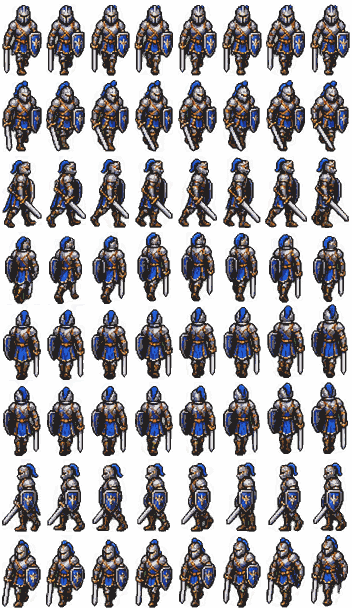
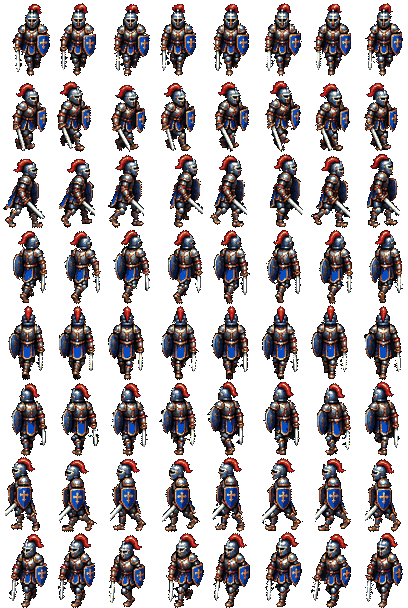
Le chevalier animé remplace la première planche de marche
La nouvelle planche est plus lisible : bouclier bleu au blason doré, plumet
rouge, silhouette nette. Elle devient le sprite du style « Animé »
(64 cases de 51×76, huit orientations × huit images).

Découpage : contrairement à la planche peinte, la maquette est aplatie — pas
d'alpha, même navy pour le fond et les panneaux — mais le contour des
personnages est plus SOMBRE que le fond, donc un seuil suffit, avec la
connexité au bord pour ne pas percer l'intérieur. Les bandes se repèrent en ne
projetant que les pixels colorés : les étiquettes grises ne passent pas le
filtre. Chaque case est alignée sur le centre des pieds, pas sur sa boîte
englobante, que l'épée tendue de la vue de profil décalerait.

Poids : la planche est ombrée en dégradé, 90 000 couleurs après réduction ;
326 Ko en WebP sans pertes, 136 en WebP avec pertes. En passant d'abord par une
palette de 48 couleurs, l'encodeur emprunte son chemin palettisé et l'atlas
tombe à 67 Ko, sans différence visible même agrandi quatre fois.

Recoloration : l'armure est un acier bleuté voisin du bleu du bouclier, et
l'échange de canaux la faisait virer au cuivre. `enRouge`/`enBleu` cèdent la
place à une rotation de fenêtre de teinte paramétrée par l'atlas — 200°–255°
vers le rouge ici, 338°–14° vers le bleu pour le lancier — l'échange de canaux
ne servant plus qu'à la cape peinte. Trois tests comparent les deux variantes
pixel à pixel : 20 % des pixels repeints, 40 434/40 434 pixels d'acier intacts,
[…]

diff --git a/jeu/js/sprites.js b/jeu/js/sprites.js
@@ -19,8 +19,11 @@
 const ATLAS = {
   militia: {
     src: 'assets/milicien-marche.webp',
-    cellW: 44, cellH: 76, cases: 8, images: 8, cycle: 40,
-    ancreY: 73, hauteurMonde: 44, natif: 'bleu',
+    cellW: 51, cellH: 76, cases: 8, images: 8, cycle: 40,
+    ancreY: 75, hauteurMonde: 44, natif: 'bleu',
+    // L'armure est un acier bleuté : un échange de canaux la ferait virer au
+    // cuivre. Seuls les bleus francs — bouclier et tabard — basculent.
+    recolorage: { teinte: [200, 255], vers: 0, satMin: 0.32 },
   },
   // Même unité, l'autre style : l'illustration peinte, sans marche animée.
   // Elle sert à comparer les deux partis pris sans relancer de partie.
@@ -28,11 +31,17 @@ const ATLAS = {
     src: 'assets/chevalier.webp',
     cellW: 76, cellH: 104, cases: 8, images: 1,
     ancreY: 104, hauteurMonde: 40, natif: 'bleu',
+    // Ici le bleu couvre une grande cape peinte, sans acier bleuté à épargner :
+    // l'échange de canaux suffit et coûte moins cher qu'une conversion HSL.
+    recolorage: 'echange',
   },
   spearman: {
     src: 'assets/lancier.png',
     cellW: 48, cellH: 48, cases: 8, images: 1,
     ancreY: 46, hauteurMonde: 44, natif: 'rouge', pixel: true,
+    // Le rouge du tabard voisine avec la peau et le cuir, dont la teinte est
+    // orangée : la fenêtre s'arrête aux rouges francs.
+    recolorage: { teinte: [338, 14], vers: 216, satMin: 0.35, lumMax: 0.75 },
   },
 };
 
@@ -98,11 +107,11 @@ function copie(image, l, h) {
 }
 
 /**
- * Bleu → rouge. Sur l'illustration peinte, le bleu couvre une grande cape :
- * on échange simplement le rouge et le bleu des pixels à dominante bleue, ce
- * qui laisse l'acier et l'or intacts.
+ * Échange rouge et bleu sur les pixels à dominante bleue. C'est la règle la
+ * moins chère, et elle convient à une illustration où le bleu couvre une
+ * grande surface peinte sans acier bleuté alentour.
  */
-function enRouge(image, l, h) {
+function echangeCanaux(image, l, h) {
   const { canvas, ctx } = copie(image, l, h);
   try {
     const data = ctx.getImageData(0, 0, l, h);
@@ -122,28 +131,43 @@ function enRouge(image, l, h) {
 }
 
 /**
- * Rouge → bleu. Sur du pixel art, le rouge du tabard voisine avec la peau du
- * visage et le cuir : une bascule large repeignait le visage en bleu. On ne
- * prend donc que les rouges francs (teinte 338°–14°), ce qui épargne la peau
- * et le cuir, dont la teinte est orangée.
+ * Bascule une FENÊTRE DE TEINTE vers une autre, en gardant saturation et
+ * luminosité. C'est ce qu'il faut dès que la couleur d'équipe voisine une
+ * matière de teinte proche : l'acier bleuté à côté d'un bouclier bleu, la peau
+ * et le cuir à côté d'un tabard rouge. Un échange de canaux les emporterait
+ * avec ; une fenêtre étroite les épargne.
+ *
+ * `teinte` est un intervalle en degrés, qui peut passer par 0 (338 → 14).
  */
-function enBleu(image, l, h) {
+function rotationTeinte(image, l, h, regle) {
   const { canvas, ctx } = copie(image, l, h);
+  const [a, b] = regle.teinte;
+  const cible = regle.vers / 360;
+  const satMin = regle.satMin ?? 0.3;
+  const lumMax = regle.lumMax ?? 1;
+  const dedans = a <= b
+    ? (d) => d >= a && d <= b
+    : (d) => d >= a || d <= b;      // fenêtre à cheval sur 0°
   try {
     const data = ctx.getImageData(0, 0, l, h);
     const p = data.data;
     for (let i = 0; i < p.length; i += 4) {
       if (p[i + 3] === 0) continue;
       const [teinte, sat, lum] = versHSL(p[i], p[i + 1], p[i + 2]);
-      const deg = teinte * 360;
-      if ((deg >= 338 || deg <= 14) && sat > 0.35 && lum < 0.75) {
-        const [r, g, b] = versRGB(0.60, sat, lum);
-        p[i] = r; p[i + 1] = g; p[i + 2] = b;
-      }
+      if (sat <= satMin || lum >= lumMax || !dedans(teinte * 360)) continue;
+      const [r, g, bl] = versRGB(cible, sat, lum);
+      p[i] = r; p[i + 1] = g; p[i + 2] = bl;
     }
     ctx.putImageData(data, 0, 0);
   } catch { /* idem */ }
   return canvas;
+}
+
+/** Variante d'équipe : l'image d'origine sert un camp, l'autre est recalculée. */
+function recolorer(def, image, l, h) {
+  return def.recolorage === 'echange'
+    ? echangeCanaux(image, l, h)
+    : rotationTeinte(image, l, h, def.recolorage);
 }
 
 /** Charge un atlas donné, une seule fois. */
@@ -156,9 +180,10 @@ function chargerAtlas(cle) {
   image.decoding = 'async';
   image.onload = () => {
     const l = image.width, h = image.height;
+    const autre = recolorer(def, image, l, h);
     entree.variantes = def.natif === 'bleu'
-      ? { bleu: image, rouge: enRouge(image, l, h) }
-      : { rouge: image, bleu: enBleu(image, l, h) };
+      ? { bleu: image, rouge: autre }
+      : { rouge: image, bleu: autre };
     entree.pret = true;
   };
   image.onerror = () => { charges.set(cle, { def, pret: false, absent: true }); };

diff --git a/jeu/sw.js b/jeu/sw.js
@@ -1,5 +1,5 @@
 // Service worker : le jeu reste jouable hors ligne une fois chargé.
-const CACHE = 'age-empires-mobile-v8';
+const CACHE = 'age-empires-mobile-v9';
 const ASSETS = [
   './',
   './index.html',

diff --git a/jeu/assets/SOURCES.md b/jeu/assets/SOURCES.md
@@ -6,7 +6,7 @@
 | `portrait-milicien.webp` | Buste du même chevalier | idem |
 | `defaite.webp` | Le chevalier à terre (dernière image de l'animation de mort) | idem |
 | `chevalier.webp` | Atlas des **huit orientations** du chevalier, style « peint » du milicien | idem |
-| `milicien-marche.webp` | Cycle de marche, **huit orientations × huit images** (64 cases), style « animé » du milicien | Planche de cycle de marche fournie par l'auteur du dépôt |
+| `milicien-marche.webp` | Cycle de marche du chevalier, **huit orientations × huit images** (64 cases de 51×76), style « animé » du milicien | Planche de cycle de marche fournie par l'auteur du dépôt |
 | `lancier.png` | Atlas des **huit orientations** d'un homme d'armes en pixel art, sprite du lancier | GIF animé fourni par l'auteur du dépôt (48×48, 8 images, fond déjà transparent) |
 
 Ces images viennent d'une planche de référence fournie par l'auteur du dépôt, qui
@@ -41,27 +41,67 @@ repeignait le visage en bleu ; on ne prend donc que les rouges francs (teinte
 
 ## Le cycle de marche
 
-La planche fournie tient quatre bandes de deux orientations, huit images chacune.
-Les bandes ont été repérées par **projection du canal alpha** (une ligne vide
-sépare deux bandes), puis chaque image découpée sur le même principe, et les
-64 cases recollées en une grille de 8 colonnes (les images) sur 8 lignes (les
-directions) — c'est ce que `cadreSource()` attend d'un atlas animé.
+La planche fournie est une **maquette aplatie** : malgré son en-tête, elle n'a
+pas de canal alpha, et ses huit panneaux partagent le même fond navy que la page
+(9, 17, 22). Le détourage est donc plus simple que sur la planche peinte — le
+contour des personnages est plus **sombre** que le fond, pas plus clair, donc un
+seuil de distance suffit, complété par la connexité au bord pour ne pas percer
+l'intérieur des sprites.
+
+Les quatre bandes ont été repérées par projection des pixels **colorés**
+(luminance > 40 et saturation > 25) : le texte des étiquettes, gris ou blanc, ne
+passe pas ce filtre, les armures oui. Dans chaque bande, les huit images se
+détachent de la même façon — à un cas près, où le bouclier détaché du corps
+formait un neuvième groupe, recollé au plus proche voisin.
 
 L'ordre des directions de la planche — bas, bas-droite, droite, haut-droite,
-haut, haut-gauche, gauche, bas-gauche — correspondait déjà exactement à
+haut, haut-gauche, gauche, bas-gauche — correspondait exactement à
 `caseDirection()`. Vérifié à l'écran plutôt que déduit : une unité envoyée vers
 l'est affiche bien la case 2.
+
+Chaque case est **alignée sur le centre des pieds**, pas sur sa boîte englobante :
+l'épée tendue de la vue de profil décalerait tout le cycle d'une image à l'autre.
+
+Malgré son allure de pixel art, la planche n'est **pas** un agrandissement entier
+d'une petite image : 92 % des plages horizontales de couleur constante font un
+seul pixel. Elle est donc réduite au filtre de Lanczos et dessinée **avec**
+lissage, contrairement au lancier.
 
 L'image affichée vient de la **distance parcourue**, pas de l'horloge. Une unité
 lente marche lentement, une unité bloquée ne pédale pas sur place, et une unité
 arrêtée revient à l'image 0, sa pose de repos.
 
-Le poids a demandé un détour : en WebP **avec pertes**, l'atlas pesait 133 Ko,
-soit plus que les 103 Ko du PNG — le codec dépense son budget sur les bords nets
-et le fond transparent. En le quantifiant à 96 couleurs puis en l'encodant **sans
-pertes**, il tombe à 61 Ko, sans différence visible même agrandi trois fois.
+### Le poids, et le détour par la palette
+
+Cette planche est ombrée en dégradé : après réduction, l'atlas comptait **90 000
+couleurs distinctes**. En WebP sans pertes, il pesait 326 Ko ; en WebP avec pertes
+à qualité 82, encore 136 Ko.
+
+Le détour qui débloque tout : **réduire d'abord à 48 couleurs**, puis encoder sans
+pertes. L'encodeur emprunte alors son chemin palettisé et tombe à **67 Ko** — le
+quart de son poids, sans différence visible à l'œil même agrandi quatre fois (en
+dessous de 32 couleurs, en revanche, le bouclier se désature et le plumet perd
+son dégradé).
+
+### La recoloration d'équipe
+
+Ici l'armure est un **acier bleuté** qui voisine avec le bleu franc du bouclier et
+du tabard. L'échange de canaux utilisé pour l'illustration peinte faisait virer
+toute l'armure au cuivre. La règle retenue bascule une **fenêtre de teinte**
+(200°–255°, saturation > 0,32) vers le rouge, en gardant saturation et luminosité :
+le bouclier et le tabard changent de camp, le casque et les épaulières restent de
+l'acier.
+
+C'est la même mécanique que pour le lancier, dans l'autre sens : une fenêtre
+étroite autour des rouges francs (338°–14°), pour épargner la peau et le cuir.
+`js/sprites.js` n'a donc plus qu'une fonction de rotation de teinte, paramétrée
+par l'atlas, et l'échange de canaux ne sert plus qu'à la cape peinte.
+
+Un test le vérifie à chaque exécution : 20 % des pixels sont repeints, **aucun
+pixel d'acier n'est touché** (40 434 sur 40 434 intacts), et il ne reste aucun
+bleu franc côté adverse.
 
 ## Format
 
-WebP partout où c'est possible : 134 Ko pour l'ensemble, contre environ 420 Ko en
+WebP partout où c'est possible : 140 Ko pour l'ensemble, contre environ 430 Ko en
 PNG, sans différence visible à l'œil même agrandi trois fois.

diff --git a/jeu/README.md b/jeu/README.md
@@ -3,7 +3,7 @@
 Un jeu de stratégie en temps réel inspiré d'Age of Empires, **jouable au doigt**
 dans n'importe quel navigateur moderne. Pas de moteur de jeu, pas de bibliothèque,
 très peu d'images : ~7 800 lignes de JavaScript, du Canvas 2D, des
-pictogrammes vectoriels et 134 Ko d'illustrations — dont un cycle de marche
+pictogrammes vectoriels et 140 Ko d'illustrations — dont un cycle de marche
 complet.
 
 ## Lancer le jeu
@@ -262,7 +262,7 @@ n'avait pas la même tête sur un Samsung et sur un iPhone.
 couleur vient du texte qui les porte. Les auteurs sont cités dans l'écran
 **Crédits**, accessible depuis le menu de pause — c'est ce que la licence exige.
 
-Les **illustrations** (`assets/`, 134 Ko) viennent de planches de personnage
+Les **illustrations** (`assets/`, 140 Ko) viennent de planches de personnage
 fournies par l'auteur du dépôt : le chevalier de l'écran d'accueil,
 le portrait du milicien dans le panneau de sélection, et le chevalier à terre
 de l'écran de défaite. Le portrait de l'adversaire est le même fichier, passé
@@ -275,12 +275,16 @@ sans recouvrement possible — un X d'épées, un disque de cible, un fer à che
 
 ### Les unités portent une illustration, et deux styles cohabitent
 
-Le milicien marche pour de vrai : `assets/milicien-marche.webp` (61 Ko) tient
-**huit orientations × huit images**, soit 64 cases de 44×76 px, découpées d'une
+Le milicien marche pour de vrai : `assets/milicien-marche.webp` (67 Ko) tient
+**huit orientations × huit images**, soit 64 cases de 51×76 px, découpées d'une
 planche de cycle de marche. L'image affichée est choisie sur la **distance
 parcourue** et non sur l'horloge — les jambes suivent donc le sol, une unité
 lente marche lentement, et une unité arrêtée reprend sa pose de repos plutôt que
 de pédaler sur place.
+
+L'atlas est passé par une **palette de 48 couleurs** avant d'être encodé sans
+pertes : l'encodeur WebP emprunte alors son chemin palettisé et l'atlas tombe de
+326 à 67 Ko, sans différence visible même agrandi quatre fois.
 
 Le **lancier** est du **pixel art natif** (`assets/lancier.png`, 4 Ko) : huit
 orientations de 48 px, dessinées pour cette taille. Il est rendu sans lissage,
@@ -304,6 +308,23 @@ l'écran est net : **la marche dessinée l'emporte**. À la taille d'une unité,
 qui se lit n'est pas le détail d'un personnage mais son mouvement ; la peinture
 réduite devient une tache sombre. Elle garde sa place là où elle est vue en
 grand — accueil, portrait, écran de fin.
+
+### La couleur d'équipe se calcule au chargement
+
+L'illustration d'origine sert un camp, l'autre est recalculée une fois pour
+toutes dans un canvas hors écran — plutôt qu'un filtre appliqué à chaque image,
+qui ne rend pas la même chose d'un navigateur à l'autre.
+
+La règle ne peut pas être la même partout. Sur la cape peinte, un simple échange
+des canaux rouge et bleu suffit. Sur le chevalier animé, l'armure est un **acier
+bleuté** juste à côté du bleu franc du bouclier : l'échange faisait virer toute
+l'armure au cuivre. On bascule donc une **fenêtre de teinte** (200°–255°,
+saturation > 0,32), ce qui prend le bouclier et le tabard en épargnant l'acier.
+Le lancier utilise la même mécanique dans l'autre sens, autour des rouges francs,
+pour épargner la peau et le cuir.
+
+Un test compare les deux variantes pixel à pixel : 20 % des pixels sont repeints,
+**aucun pixel d'acier n'est touché**, et il ne reste aucun bleu franc côté adverse.
 
 Toute unité sans illustration garde son rendu dessiné au code, et le jeu reste
 jouable si une image ne charge pas. Avec 60 unités en marche à l'écran, les deux
